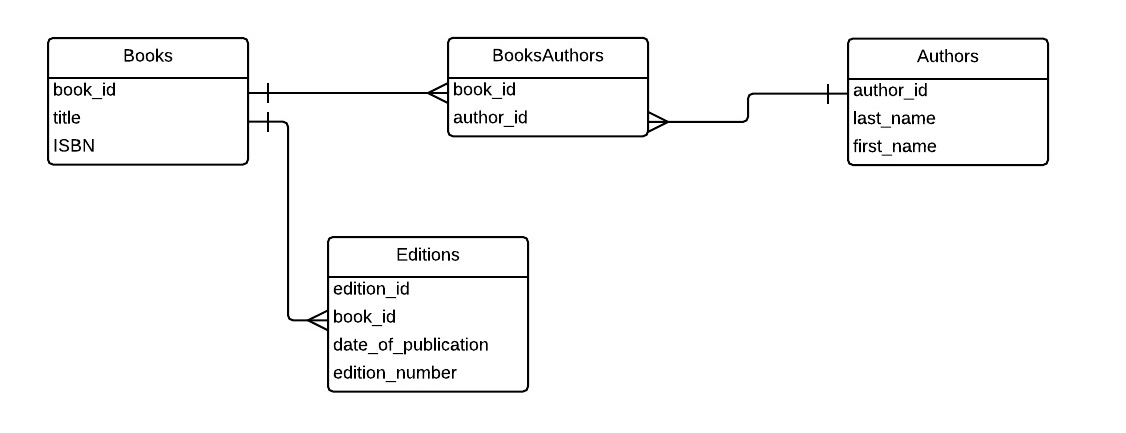
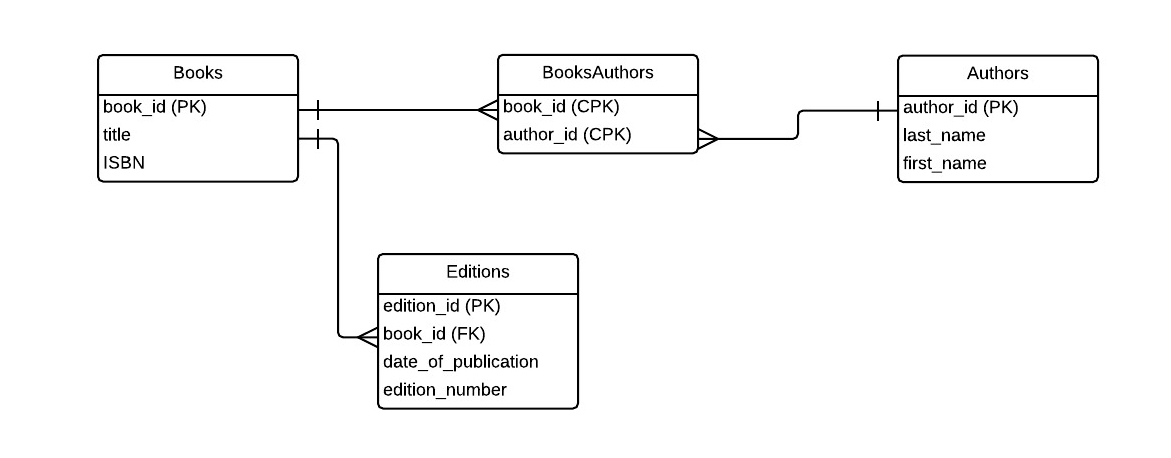
Updated README.md; updated BooksAuthorseEditions ERD.

Changed region(s): [[0.0311, 0.06, 0.9636, 0.4203], [0.2487, 0.5404, 0.4973, 0.9307], [0.0311, 0.0901, 0.0622, 0.1201]]

diff --git a/README.md b/README.md
@@ -34,13 +34,13 @@ For join tables, the primary key for each row is the unique _combination_ of the
 
 Putting together all of our tables, we get a database structure that can be represented like this:
 
-[@todo: label kyes as PK and FK]
-
 ![Books and editions](assets/BooksAuthorsEditions.jpg)
 
-Books, Authors, and Editions all have a unique ID (book_id, author_id, and edition_id respectively) that is used as their primary key, and Editions contains the foreign key book_id that links it to the Books table in a one-to-many relationship. The relation table BooksAuthors only has two columns, book_id and author_id, which are both foreign keys.
+Books, Authors, and Editions all have a unique ID (book_id, author_id, and edition_id respectively) that is used as their primary key (labelled as PK in the diagram above), and Editions contains the foreign key (FK) book_id that links it to the Books table in a one-to-many relationship. The join table BooksAuthors only has two columns, book_id and author_id, which are both foreign keys that make up a composite primary key (CPK).
 
-Here are the tables, structured as illustrated above, with some data in them:
+(This database portrays the relationships between books, authors, and editions in rather simplistic terms. For example, different manifestations of a book such as a paperback and an ebook usually have different ISBNs, and two different editions of a book can have different authors. However, the database will suffice as an example of a simple relational model.)
+
+Here are the tables, structured as illustrated above, with some data in them. Note that the order of the columns is not the same as in the diagrams:
 
 Books
 
@@ -200,7 +200,7 @@ In this workshop, we'll be interacting with our databases using a web-based mana
 
 ##### Command-line clients
 
-MySQL, PostgreSQL, and SQLite come with a command-line client. To invoke MySQL's client as the database's root user on Linux, you run the command `mysql -uroot -p`. After entering the root user's password, you would enter the MySQL shell, which looks like this:
+MySQL, PostgreSQL, and SQLite come with a command-line client. To invoke MySQL's client as the database's root user on Linux, you run the command `mysql -uroot -p`. After providing the root user's password, you enter the MySQL shell, which looks like this:
 
 ![MySQL command-line client](assets/mysql_client.png)
 
